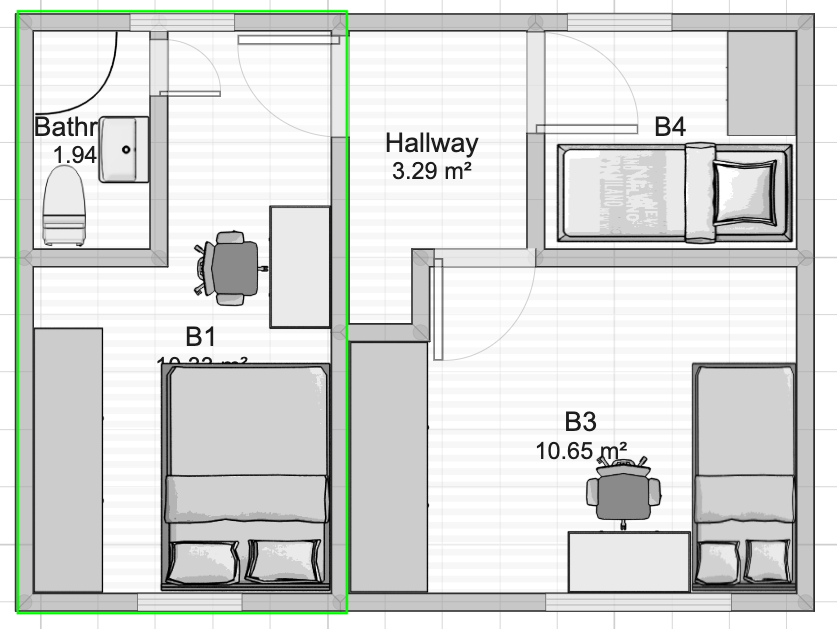
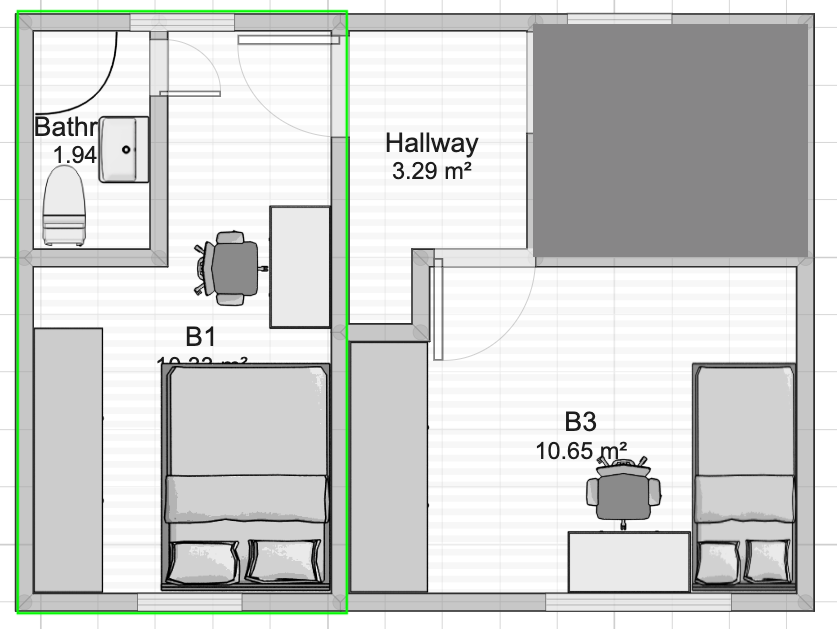
sd24

Changed region(s): [[0.6213, 0.0302, 0.963, 0.4229]]

diff --git a/GU29SD-24.html b/GU29SD-24.html
@@ -64,7 +64,7 @@
 			-->
 
 			<h1>
-				<p> 16 min walk to University of Surrey</p></h1>
+				<p> 3 bedroom house 16 min walk to University of Surrey</p></h1>
 			<h2 style="background-color:Yellow; color=#fff">
                 @: <a href=mailto:manhanhouse@gmail.com>manhanhouse@gmail.com</a><br>
 				 Tel: 07503016565 <br>
@@ -73,17 +73,17 @@
                 
 				</h2>
 			 <h2>
-                 The house consists of a fully functional kitchen, a large garden, 2 bathrooms and 4 private bedrooms.<br>
+                 The house consists of a fully functional kitchen, a large garden, 2 bathrooms and 3 private bedrooms.<br>
                  <p> 100 Mb broadband internet!  </p>
                  
                  <ul>
-                     <li>B1: 1 large en-suite with king size bed, private bathroom[available from 15/08/2019]<br>
+                     <li>B1: 1 large en-suite with king size bed, private bathroom[available from 18/08/2019]<br>
                          <li>B2: a large double room with king size bed [available from 18/08/2019]<br>
                              <li>B3: a double room [available from 16/09/2019]<br>
-                                 <li>B4: a small single room [available from 27/07/2019]<br>
+                                 <!--li>B4: a small single room [available from 27/07/2019]<br-->
                                          </ul>
                  B1 has its own private bathrooms.<br>
-                 B2, B3, and B4 share the Bathroom 1. <br>
+                 B2 and B3 share the Bathroom 1. <br>
 					     
                  <p>Convenient with <br>
                  2 mins walk to supermarket (CO-OP), gas station, and a bunches of local shops; <br>
@@ -159,11 +159,11 @@ Plenty spaces in front of the house for parking.  <br>
                 </li>
                 <!--li>
                     <a href="img/9SD24/b4-1.jpg"><img src="img/9SD24/b4-1.jpg" alt="Image" style="width:210px;height:268px;"></a>
-                </li-->
+                </li>
                 <li>
                     <a href="img/9SD24/b4-1.jpg"><img src="img/9SD24/b4-1.jpg" alt="b4" style="width:210px;height:268px;"></a>
                     
-                </li>
+                </li-->
                 <li>
                     <a href="img/9SD24/bath-1.jpg"><img src="img/9SD24/bath-1.jpg" alt="bath" style="width:210px;height:268px;"></a>
                     
@@ -177,10 +177,10 @@ Plenty spaces in front of the house for parking.  <br>
                     
                 </li>
                 
-                <li>
+                <!--li>
                     <a href="img/9SD24/bathroom2.JPG"><img src="img/9SD24/bathroom2.JPG" alt="bath" style="width:210px;height:268px;"></a>
                     
-                </li>
+                </li-->
                 
              
                 

diff --git a/list.html b/list.html
@@ -118,7 +118,7 @@
                         </tr-->
                         <tr>
                             <td style="color:Orange;">Large en-suite (B1)</td>
-                            <td style="color:Orange;">15/08/2019</td>
+                            <td style="color:Orange;">18/08/2019</td>
                             <td style="color:Orange;">GU2 9SD</td>
                             <td><a href="http://manalgorithm.com/GU29SD-24.html">GU29SD-24</a></td>
                         </tr>
@@ -134,12 +134,12 @@
                             <td style="color:Orange;">GU2 9SD</td>
                             <td><a href="http://manalgorithm.com/GU29SD-24.html">GU29SD-24</a></td>
                         </tr>
-                        <tr>
+                        <!--tr>
                             <td style="color:Orange;">Small single room (B4)</td>
                             <td style="color:Orange;">27/07/2019</td>
                             <td style="color:Orange;">GU2 9SD</td>
                             <td><a href="http://manalgorithm.com/GU29SD-24.html">GU29SD-24</a></td>
-                        </tr>
+                        </tr-->
                         <tr>
                             <td style="color:Orange;"><del>1-bed flat (B5)</td>
                             <td style="color:Orange;"><del><b>26/08/2020</td>
